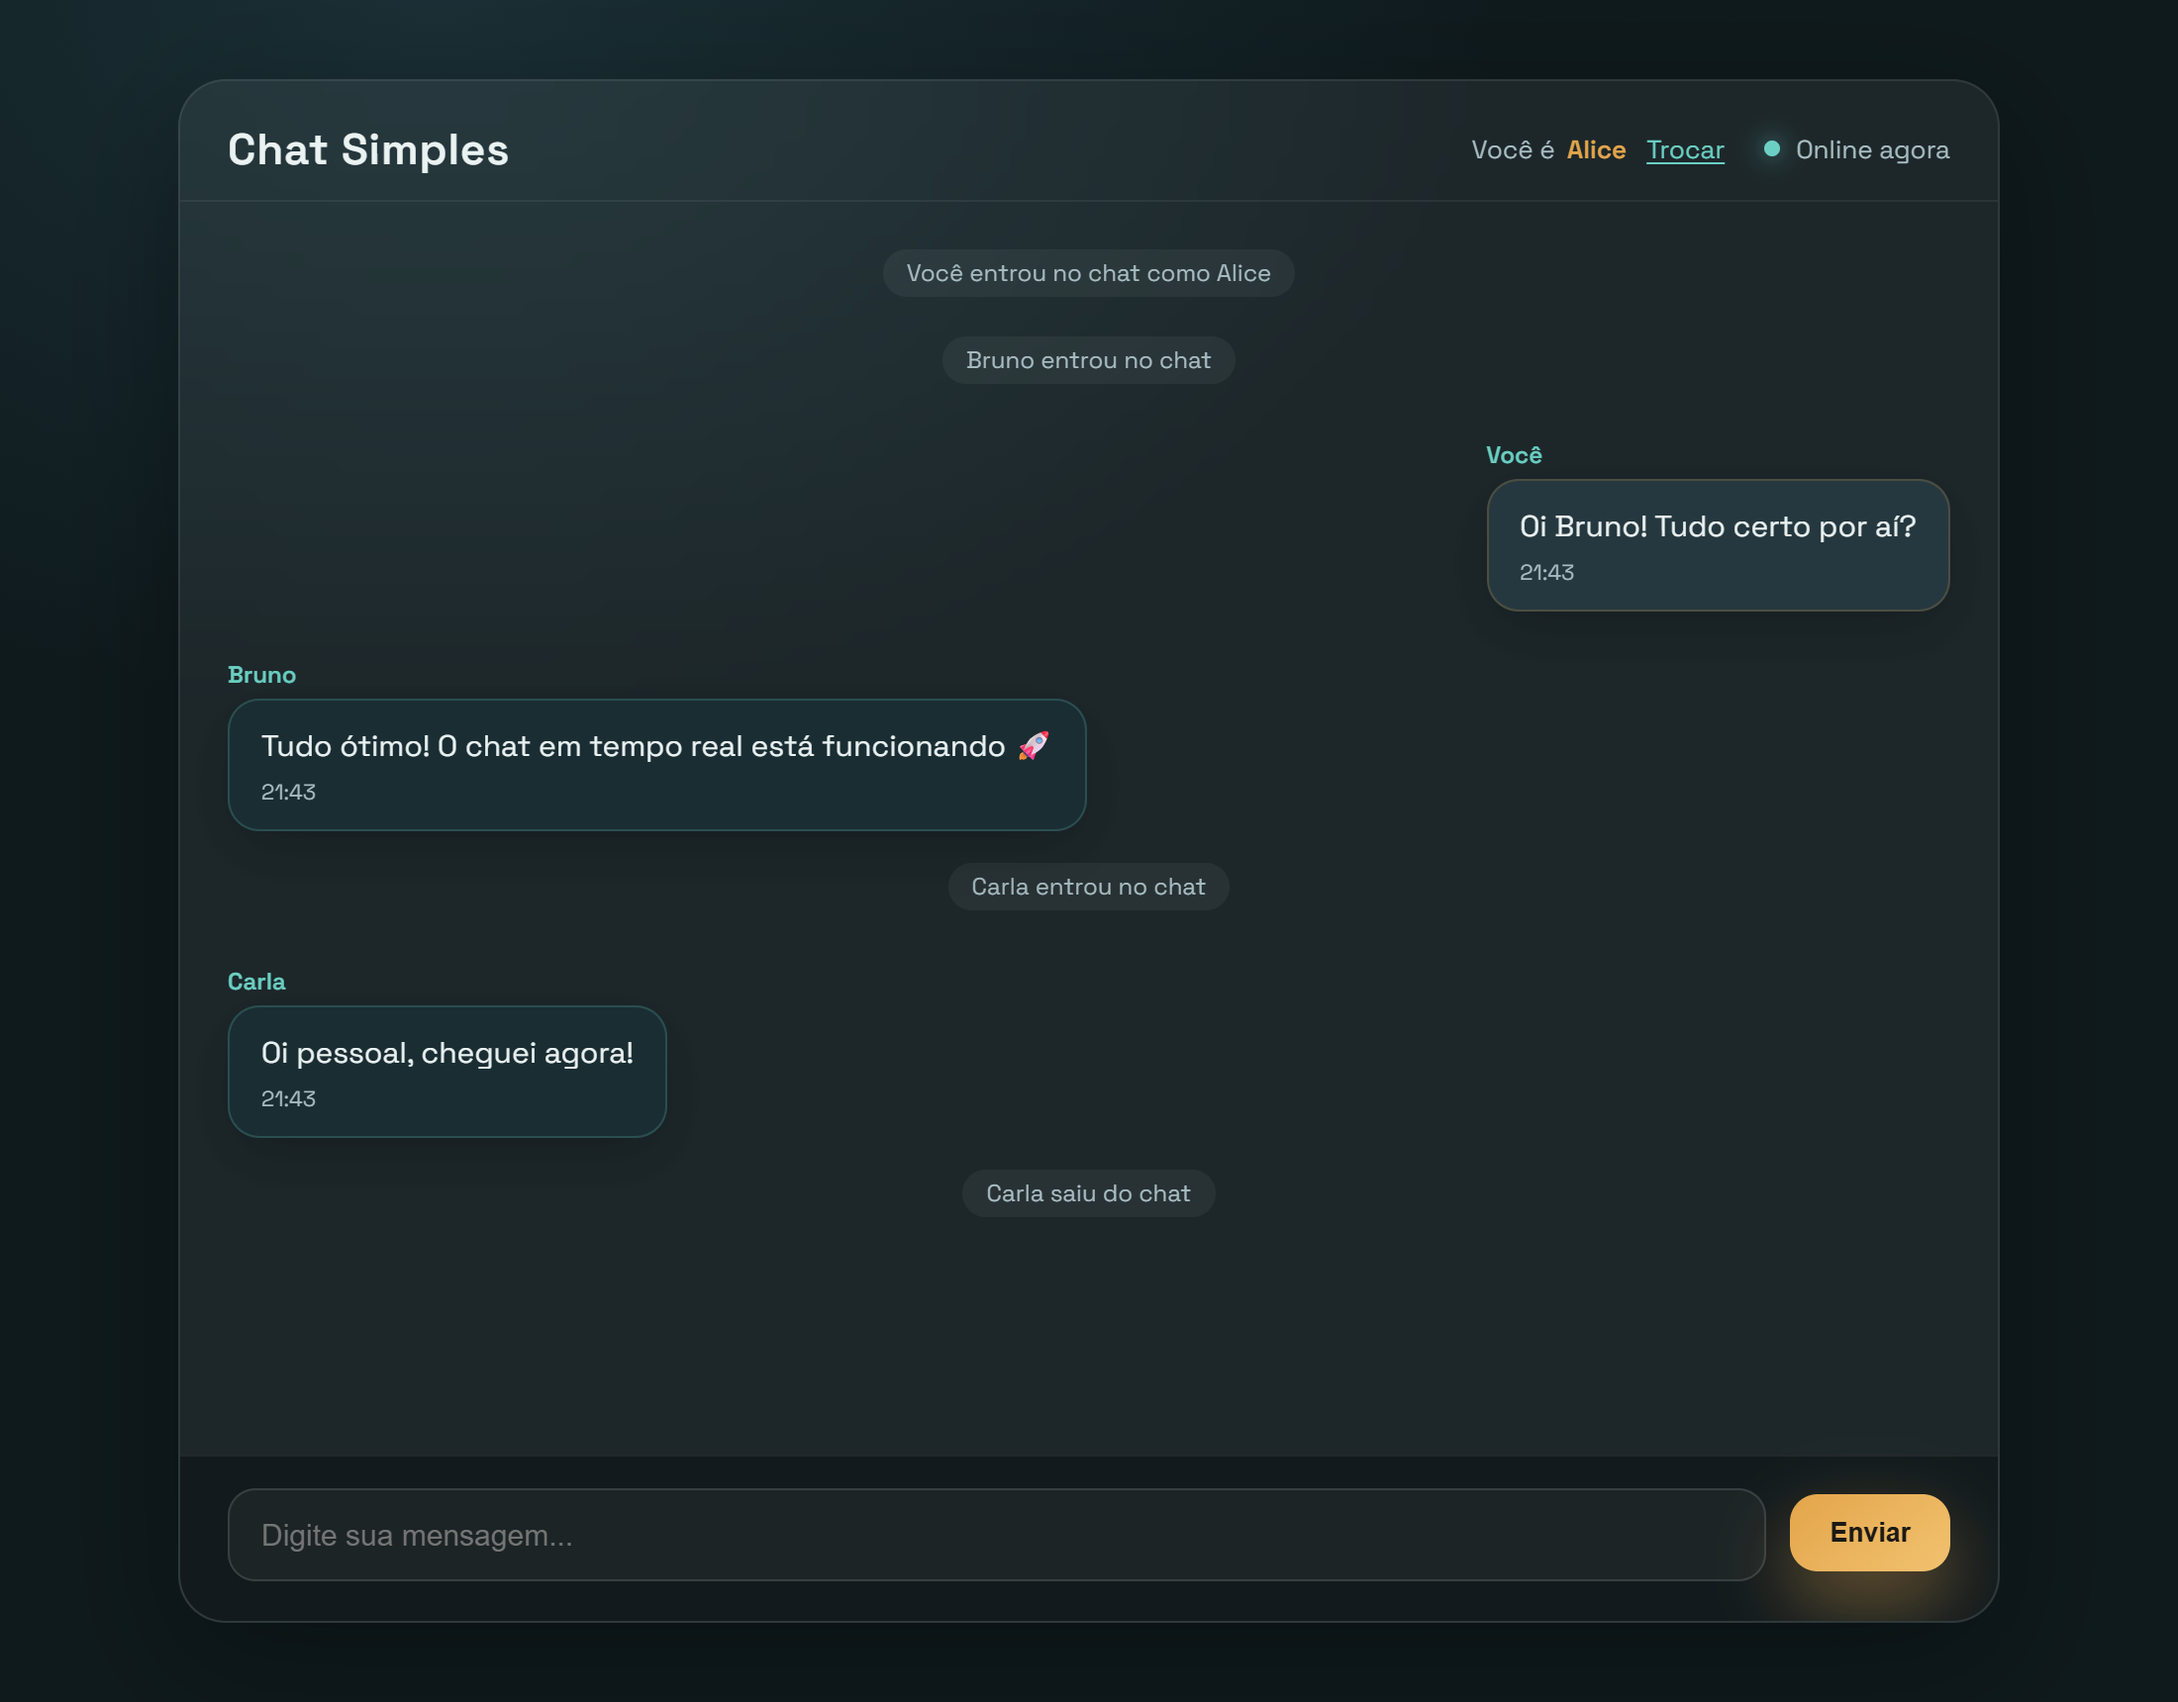
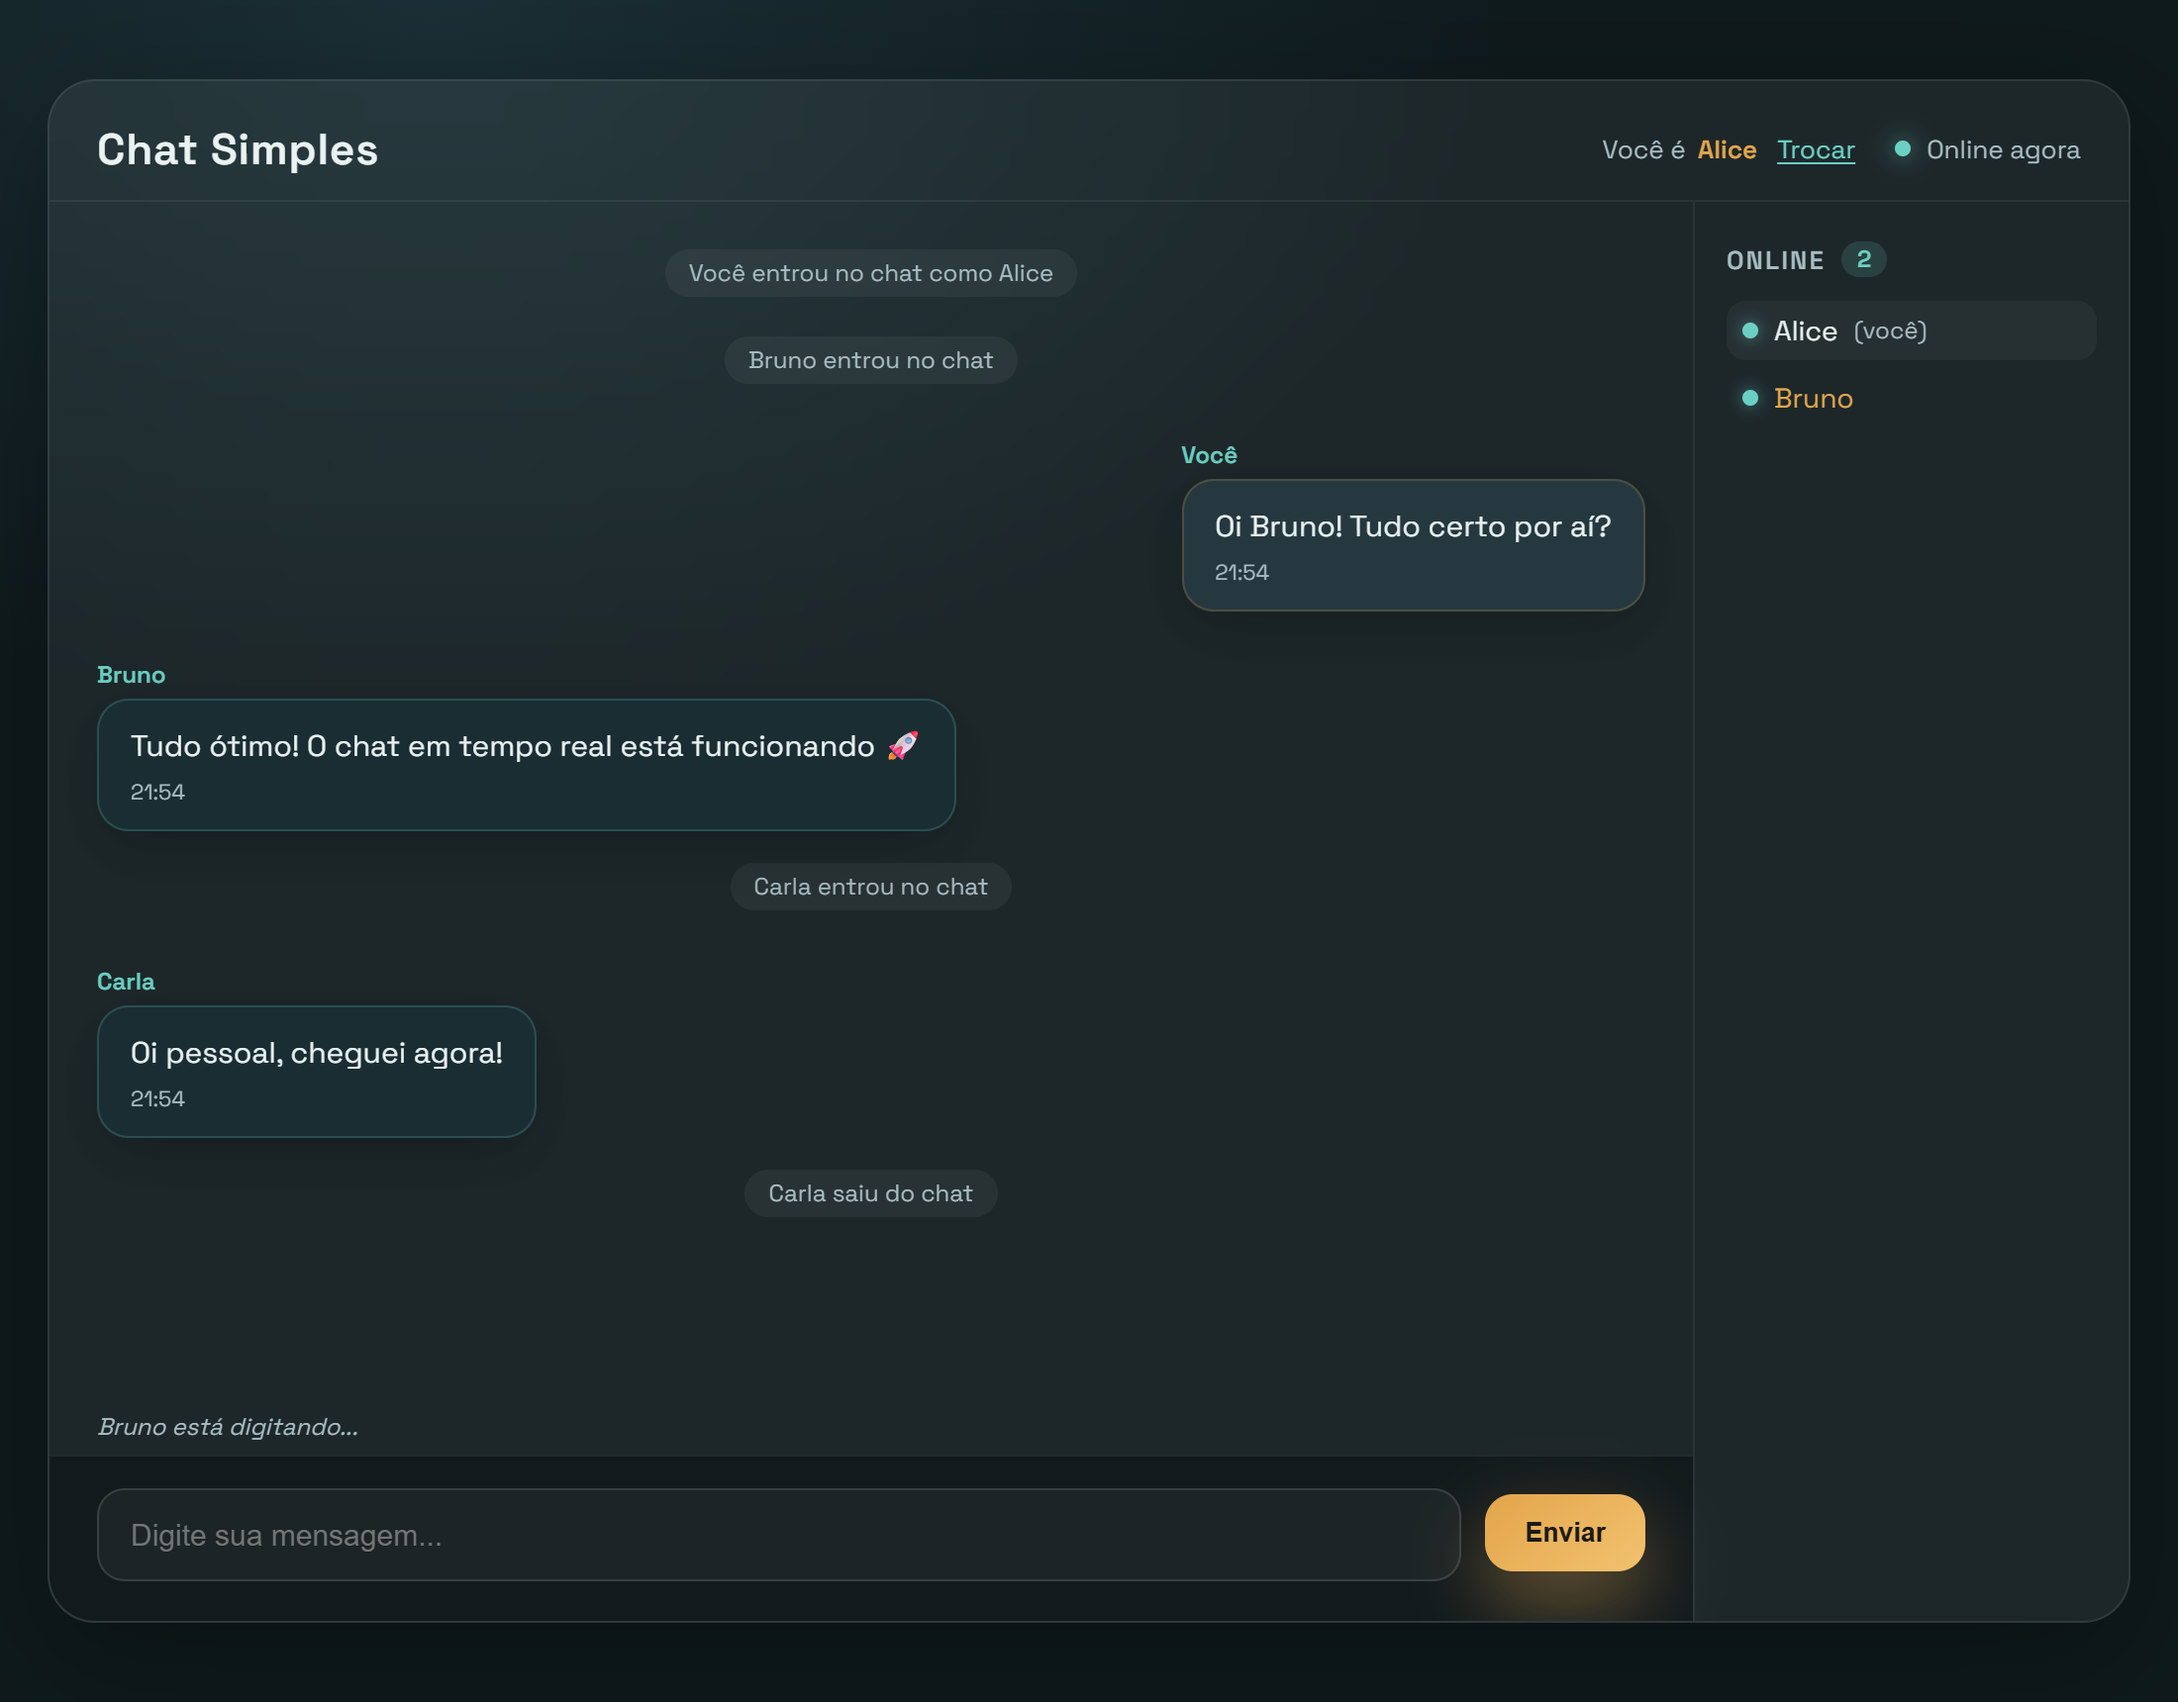
docs: document online list, typing, retry and reconnection

diff --git a/README.md b/README.md
@@ -2,15 +2,18 @@
 
 Aplicação de chat em tempo real separada em dois serviços: um backend em Python gerenciado com `uv` e um frontend utilizando TypeScript e Bun.
 
-![Tela do chat com mensagens trocadas entre três usuários e avisos de entrada e saída](docs/screenshot.png)
+![Tela do chat com mensagens, avisos de entrada e saída, lista de usuários online e indicador de digitação](docs/screenshot.png)
 
 ## ✨ Funcionalidades
 
 - **Mensagens em tempo real** entre todos os usuários conectados.
 - **Escolha de nome** ao entrar, com o último nome usado salvo no navegador. O nome pode ser trocado depois pelo botão **Trocar** no cabeçalho.
 - **Nomes únicos**: o servidor recusa um nome que já está em uso.
-- **Envio otimista**: a mensagem aparece na hora como "Enviando..." e é confirmada (ou marcada como "Falha ao enviar") quando o servidor responde.
+- **Envio otimista**: a mensagem aparece na hora como "Enviando..." e é confirmada (ou marcada como "Falha ao enviar") quando o servidor responde. Mensagens com falha têm um botão **Tentar de novo**.
+- **Lista de usuários online** na lateral, com destaque para quem está digitando. Em telas pequenas vira um contador no cabeçalho.
+- **"Fulano está digitando..."** acima do campo de mensagem.
 - **Avisos no chat** quando alguém entra, sai ou troca de nome.
+- **Reconexão automática**: se a conexão cair, o chat tenta voltar sozinho (1s, 2s, 4s... até 30s) e entra de novo com o mesmo nome.
 - **Status da conexão** no cabeçalho (Conectando, Online, Conexão perdida).
 
 ## 🛠 Tecnologias Utilizadas
@@ -110,7 +113,7 @@ Toda mensagem é um JSON com o campo `event`. Comandos do cliente que esperam co
 | -------------- | ---------------- | ----------------------------------------------------------- |
 | `SET_USERNAME` | `id`, `username` | Define ou troca o nome (1 a 32 caracteres, único).          |
 | `SEND_TEXT`    | `id`, `text`     | Envia uma mensagem (1 a 2000 caracteres). Exige nome.       |
-| `TYPING`       | —                | Indica que o usuário está digitando. Exige nome.            |
+| `TYPING`       | —                | Indica que o usuário está digitando (enviado no máximo a cada 2s). Exige nome. |
 
 **Servidor → Cliente**
 
@@ -123,6 +126,7 @@ Toda mensagem é um JSON com o campo `event`. Comandos do cliente que esperam co
 | `BROADCAST_USER_JOINED`     | `username`                     | Um usuário entrou no chat.                                |
 | `BROADCAST_USER_LEFT`       | `username`                     | Um usuário saiu do chat.                                  |
 | `BROADCAST_USERNAME_CHANGE` | `old_username`, `new_username` | Um usuário trocou de nome.                                |
+| `USER_LIST`                 | `usernames`                    | Enviado só para quem acabou de entrar: todos os nomes online, incluindo o próprio. |
 
 Os broadcasts são enviados apenas para quem já entrou no chat com um nome, e nunca para o próprio autor.
 
@@ -140,13 +144,15 @@ frontend/
   styles.css
   src/
     main.ts        # Inicializa a interface e conecta ao servidor
-    socket.ts      # Conexão WebSocket, ACKs e eventos para a interface
+    socket.ts      # Conexão WebSocket, reconexão, ACKs e eventos para a interface
     types/         # Tipos das mensagens do protocolo
     ui/
-      messages.ts  # Lista de mensagens e avisos
+      messages.ts  # Lista de mensagens, avisos e reenvio de mensagens com falha
       status.ts    # Indicador de conexão
-      form.ts      # Campo de mensagem e botão Enviar
+      form.ts      # Campo de mensagem, botão Enviar e aviso de "digitando"
       username.ts  # Diálogo de nome e exibição do usuário atual
+      online.ts    # Lista de usuários online
+      typing.ts    # Indicador "fulano está digitando..."
     utils/         # Criação de mensagens, elementos do DOM e formatação
 docs/
   screenshot.png
